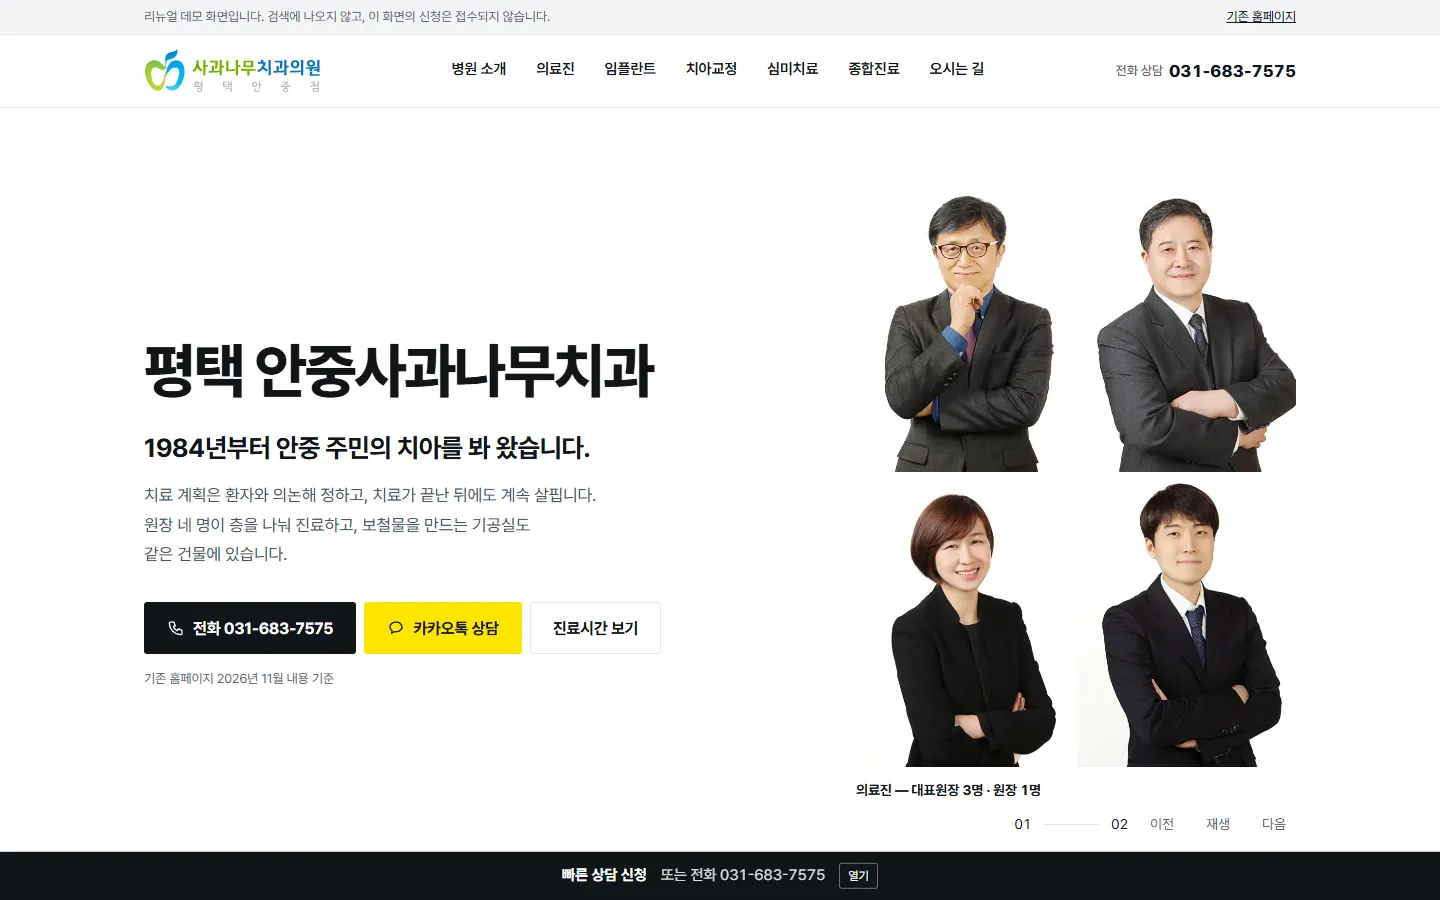
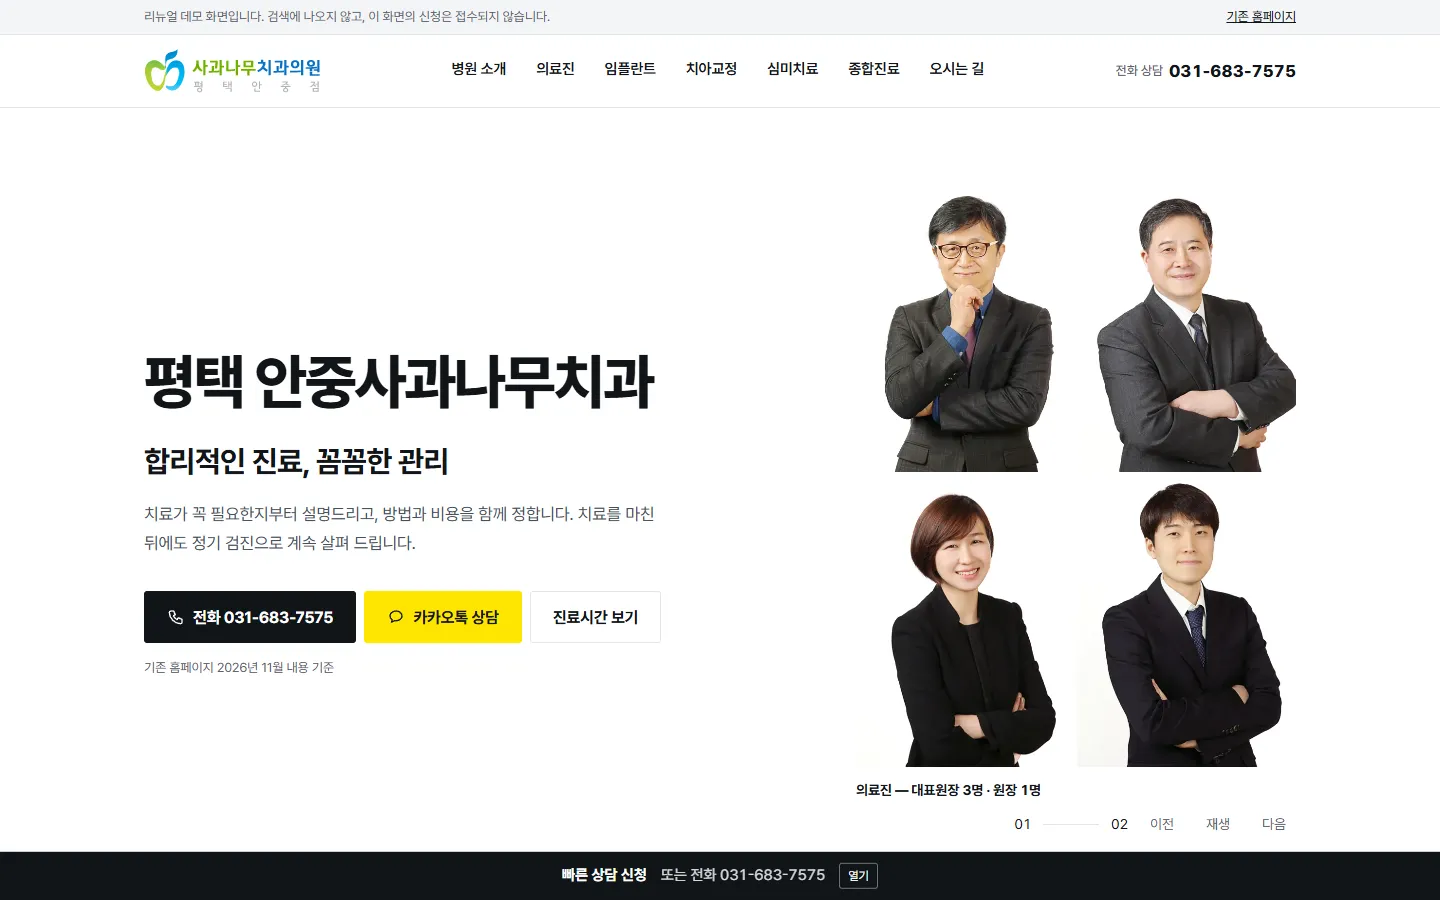
홈 첫 화면 강점 문구, 의료진 약력 상세, 층 구간 제목

Changed region(s): [[0.0938, 0.3733, 0.4688, 0.6222], [0.0938, 0.6533, 0.4375, 0.7778]]

diff --git a/index.html b/index.html
@@ -35,8 +35,8 @@
   <div class="wrap hero__grid">
     <div>
       <h1 id="h1">평택 안중사과나무치과</h1>
-      <p class="hero__tag"><span class="dot-run">1984년부터 안중 주민의 치아를 <span class="nw">봐 왔습니다.</span></span></p>
-      <p class="hero__lead"><span class="dot-run">치료 계획은 환자와 의논해 정하고, 치료가 끝난 뒤에도 계속 살핍니다. 원장 네 명이 층을 나눠 진료하고, 보철물을 만드는 기공실도 같은 <span class="nw">건물에 있습니다.</span></span></p>
+      <p class="hero__tag"><span class="dot-run">합리적인 진료, <span class="nw">꼼꼼한 관리</span></span></p>
+      <p class="hero__lead"><span class="dot-run">치료가 꼭 필요한지부터 설명드리고, 방법과 비용을 함께 정합니다. 치료를 마친 뒤에도 정기 검진으로 계속 <span class="nw">살펴 드립니다.</span></span></p>
       <div class="btns"><a class="btn btn--ink" href="tel:031-683-7575"><svg viewBox="0 0 24 24" aria-hidden="true"><path d="M5 4h4l2 5-2.5 1.5a11 11 0 0 0 5 5L15 13l5 2v4a2 2 0 0 1-2 2A16 16 0 0 1 3 6a2 2 0 0 1 2-2"/></svg>전화 031-683-7575</a><a class="btn btn--kakao" href="https://pf.kakao.com/_xjNxkAl" target="_blank" rel="noopener"><svg viewBox="0 0 24 24" aria-hidden="true"><path d="M12 4c4.4 0 8 2.9 8 6.5S16.4 17 12 17c-.7 0-1.4-.1-2-.2L6 19l.9-3.3C5.1 14.6 4 12.7 4 10.5 4 6.9 7.6 4 12 4z"/></svg>카카오톡 상담</a><a class="btn btn--line" href="#visit">진료시간 보기</a></div>
       <p class="basis"><span class="dot-run">기존 홈페이지 2026년 11월 <span class="nw">내용 기준</span></span></p>
     </div>
@@ -59,34 +59,30 @@
     <p class="doc__name">이상훈<span>대표원장</span></p>
     <div class="doc__rule"></div>
     
-    <p class="doc__short"><span class="dot-run">연세대학교 <span class="nw">치과대학 졸업</span></span></p>
-    
+    <ul class="doc__cv"><li><span class="dot-run">연세대학교 <span class="nw">치과대학 졸업</span></span></li><li>대한악안면임플란트학회 정회원</li><li>대한치과의료관리학회 정회원</li><li><span class="nw">한국방정환재단 이사</span></li><li><span class="nw">안중제일신협 이사장</span></li></ul>
   </a></li><li><a class="doc" href="doctors/#baek-namgyu">
     <div class="doc__ph"><img src="assets/img/dr-bnk.webp" width="450" height="650" alt="백남규 대표원장" loading="lazy" decoding="async"></div>
     <p class="doc__name">백남규<span>대표원장</span></p>
     <div class="doc__rule"></div>
     
-    <p class="doc__short"><span class="dot-run">치의학 <span class="nw">박사 ·</span> 경희대학교 <span class="nw">치과대학 졸업</span></span></p>
-    
+    <ul class="doc__cv"><li><span class="nw">치의학 박사</span></li><li><span class="dot-run">경희대학교 <span class="nw">치과대학 졸업</span></span></li><li><span class="dot-run">전북대학교 치과대학 부속병원 인턴, <span class="nw">레지던트 수료</span></span></li><li><span class="nw">소아치과 인정의</span></li><li><span class="nw">대한소아치과학회 정회원</span></li></ul>
   </a></li><li><a class="doc" href="doctors/#ahn-seonhye">
     <div class="doc__ph"><img src="assets/img/dr-ash.webp" width="450" height="650" alt="안선혜 대표원장" loading="lazy" decoding="async"></div>
     <p class="doc__name">안선혜<span>대표원장</span></p>
     <div class="doc__rule"></div>
-    <p class="doc__main"><b>주요 진료</b>치아교정</p>
-    <p class="doc__short"><span class="dot-run">연세대학교 치과대학 <span class="nw">치의학 석사</span></span></p>
-    <p class="doc__spec"><span><span class="nw">치과교정과 전문의</span></span></p>
+    <p class="doc__spec"><span class="dot-run">치과교정과 <span class="nw">전문의 ·</span> <span class="nw">치아교정 진료</span></span></p>
+    <ul class="doc__cv"><li><span class="dot-run">연세대학교 치과대학 <span class="nw">치의학 석사</span></span></li><li><span class="dot-run">연세대학교 치과대학 및 <span class="nw">대학원 졸업</span></span></li><li><span class="dot-run">연세대학교 치과대학병원 인턴, 교정과 <span class="nw">레지던트 수료</span></span></li><li><span class="dot-run">University of Southern California 교정과 externship <span class="nw">residency 수료</span></span></li><li><span class="dot-run">연세대학교 <span class="nw">교정연구회 정회원</span></span></li><li><span class="dot-run">대한치과교정학회 정회원 <span class="nw">및 인정의</span></span></li><li><span class="dot-run"><span class="nw">세계치과교정연맹(WFO)</span> 회원</span></li></ul>
   </a></li><li><a class="doc" href="doctors/#park-sangguk">
     <div class="doc__ph"><img src="assets/img/dr-psk.webp" width="450" height="650" alt="박상국 원장" loading="lazy" decoding="async"></div>
     <p class="doc__name">박상국<span>원장</span></p>
     <div class="doc__rule"></div>
     
-    <p class="doc__short"><span class="dot-run">고려대학교 <span class="nw">치의학 석사</span></span></p>
-    
+    <ul class="doc__cv"><li><span class="dot-run">고려대학교 <span class="nw">치의학 석사</span></span></li><li><span class="dot-run">고려대학교 임상치의학대학원 <span class="nw">구강외과 졸업</span></span></li><li><span class="dot-run">강릉대학교 <span class="nw">치과대학 졸업</span></span></li><li><span class="nw">대한치과보철학회 정회원</span></li></ul>
   </a></li></ul>
 </div></section>
 <section class="sec" aria-labelledby="fl-h"><div class="wrap">
-  <div class="sec-head"><h2 class="sec-h" id="fl-h">2층부터 4층까지, 층마다 하는 일</h2><a class="more-link" href="tour/">층별 둘러보기</a></div>
-  <p class="sec-lead"><span class="dot-run">2층은 임플란트와 수술, 3층은 교정, 4층은 보철물 제작 — 한 건물 안에서 층마다 <span class="nw">나뉘어 있습니다.</span></span></p>
+  <div class="sec-head"><h2 class="sec-h" id="fl-h"><span class="dot-run"><span class="nw">검사·수술·보철물</span> 제작을 한 건물에서</span></h2><a class="more-link" href="tour/">층별 둘러보기</a></div>
+  
   <article class="p06__row">
     <div class="p06__text">
       <p class="p06__num">01</p>

diff --git a/assets/css/site.css b/assets/css/site.css
@@ -68,7 +68,7 @@ a { color: inherit; }
 .hero__grid { display: grid; grid-template-columns: 7fr 5fr; gap: 64px; align-items: center; }
 .hero__place { margin: 0 0 14px; font-size: 15px; font-weight: 700; color: var(--accent); }
 .hero h1 { margin: 0 0 24px; font-size: clamp(36px, 4.4vw, 60px); font-weight: 800; letter-spacing: -0.035em; line-height: 1.15; }
-.hero__tag { margin: 0 0 14px; font-size: clamp(21px, 1.9vw, 26px); font-weight: 700; line-height: 1.45; letter-spacing: -0.02em; color: var(--ink); max-width: 24em; }
+.hero__tag { margin: 0 0 16px; font-size: clamp(22px, 2.2vw, 30px); font-weight: 700; line-height: 1.45; letter-spacing: -0.02em; color: var(--ink); max-width: 24em; }
 .hero__lead { margin: 0 0 32px; font-size: 17px; line-height: 1.75; color: #4A525C; max-width: 31em; }
 .hero__ph { margin: 0; max-width: 440px; justify-self: end; width: 100%; }
 .hero__frame { position: relative; aspect-ratio: 3 / 4; background: var(--soft); overflow: hidden; touch-action: pan-y; }
@@ -124,11 +124,9 @@ a { color: inherit; }
 .doc__name { margin: 16px 0 0; font-size: 20px; font-weight: 800; letter-spacing: -0.02em; line-height: 1.3; }
 .doc__name span { font-size: 15px; font-weight: 600; color: var(--sub); margin-left: 6px; }
 .doc__rule { height: 1px; background: var(--line); margin: 12px 0; }
-.doc__main { margin: 0 0 4px; font-size: 15px; }
-.doc__main b { color: var(--accent); margin-right: 6px; font-weight: 700; }
-.doc__short { margin: 0; font-size: 15px; color: var(--sub); }
-.doc__spec { margin: auto 0 0; padding-top: 12px; font-size: 14px; font-weight: 700; }
-.doc__spec span { display: inline-block; border: 1px solid var(--accent); color: var(--accent); border-radius: var(--r); padding: 2px 8px; }
+.doc__spec { margin: 0 0 8px; font-size: 15px; font-weight: 700; color: var(--accent); }
+.doc__cv { list-style: none; margin: 0; padding: 0; font-size: 15px; line-height: 1.5; color: #4A525C; }
+.doc__cv li { padding: 3px 0; }
 
 /* ── P06 번호 강점 바둑판(사진 뒤 면은 밝은 회색 — 이 쪽 어두운 구간 0곳) ── */
 .p06__row { display: grid; grid-template-columns: 7fr 5fr; align-items: center; }
@@ -580,7 +578,7 @@ body.has-cta { padding-bottom: 48px; }
   .sec-head { flex-direction: column; align-items: start; gap: 10px; }
   .hero { padding: 36px 0 56px; }
   .hero h1 { font-size: clamp(32px, 9vw, 40px); }
-  .hero__tag { font-size: 20px; }
+  .hero__tag { font-size: 23px; }
   .hero__lead { font-size: 16px; }
   .hero__ph { max-width: none; }
   .hero__frame { aspect-ratio: 4 / 5; }
@@ -591,10 +589,18 @@ body.has-cta { padding-bottom: 48px; }
   .p04__list { gap: 24px 12px; }
   .p04__name { font-size: 16px; }
   .p04__sub { font-size: 14px; }
-  .docs { gap: 24px 12px; }
-  .doc__name { font-size: 18px; }
-  .doc__name span { display: block; margin: 0; font-size: 14px; }
-  .doc__short, .doc__main { font-size: 14px; }
+  /* 휴대폰: 약력이 길어져 두 칸 격자 대신 사진 왼쪽·약력 오른쪽 한 줄씩 */
+  .docs { grid-template-columns: 1fr; gap: 0; }
+  .docs > li { border-top: 1px solid var(--line); padding: 20px 0; }
+  .docs > li:last-child { padding-bottom: 0; }
+  .doc { display: grid; grid-template-columns: 104px 1fr; column-gap: 16px; align-items: start; height: auto; }
+  .doc__ph { grid-column: 1; grid-row: 1 / span 4; }
+  .doc > :not(.doc__ph) { grid-column: 2; }
+  .doc__rule { display: none; }
+  .doc__name { margin: 0 0 6px; font-size: 18px; }
+  .doc__name span { font-size: 14px; }
+  .doc__spec { margin-bottom: 4px; }
+  .doc__spec, .doc__cv { font-size: 14px; }
   .p12__btns { grid-template-columns: 1fr 1fr; }
   .hours > div { grid-template-columns: 2.2em 3.4em 1fr; font-size: 15px; }
   .faq summary { font-size: 17px; }

diff --git a/compare/index.html b/compare/index.html
@@ -12,7 +12,7 @@
 <meta property="og:title" content="기존 홈페이지와 새 홈페이지 비교 | 평택 안중사과나무치과">
 <meta property="og:description" content="기존 홈페이지(apple7575.com)와 새 홈페이지 데모의 같은 쪽 다섯 곳을 PC·휴대폰으로 나란히. 같은 방법으로 잰 값: 구조화 데이터 0→53쪽, 의료광고 위험 표현 30→0곳.">
 <meta property="og:url" content="https://kkwon91.github.io/anjung-appletree-demo/compare/">
-<meta property="og:image" content="https://kkwon91.github.io/anjung-appletree-demo/share/img/og-compare.jpg?v=1126b">
+<meta property="og:image" content="https://kkwon91.github.io/anjung-appletree-demo/share/img/og-compare.jpg?v=1126c">
 <meta property="og:image:width" content="1200"><meta property="og:image:height" content="630">
 <meta name="theme-color" content="#ffffff">
 <link rel="preconnect" href="https://cdn.jsdelivr.net" crossorigin>
@@ -114,14 +114,14 @@
 
 <section class="sh-sec" id="full" aria-labelledby="full-h"><div class="sh-wrap">
   <h2 id="full-h">홈 전체</h2>
-  <p class="sh-sub">틀 안을 내려 보세요. PC는 절반 크기입니다(실제 높이 기존 1,517px · 새 6,883px).</p>
+  <p class="sh-sub">틀 안을 내려 보세요. PC는 절반 크기입니다(실제 높이 기존 1,517px · 새 6,964px).</p>
   <div class="pair">
     <div><p class="side side--old">기존</p><figure class="win"><span class="win__bar">apple7575.com</span><div class="scroll" tabindex="0" role="region" aria-label="기존 PC 홈 전체 — 내려 보기"><img src="../share/img/old-home-pc-full.jpg" width="720" height="759" alt="기존 홈페이지 PC 홈 전체" loading="lazy" decoding="async"></div></figure></div>
-    <div><p class="side">새 홈페이지</p><figure class="win"><span class="win__bar">kkwon91.github.io/anjung-appletree-demo/</span><div class="scroll" tabindex="0" role="region" aria-label="새 PC 홈 전체 — 내려 보기"><img src="../share/img/new-home-pc-full.jpg" width="720" height="3442" alt="새 홈페이지 PC 홈 전체" loading="lazy" decoding="async"></div></figure></div>
+    <div><p class="side">새 홈페이지</p><figure class="win"><span class="win__bar">kkwon91.github.io/anjung-appletree-demo/</span><div class="scroll" tabindex="0" role="region" aria-label="새 PC 홈 전체 — 내려 보기"><img src="../share/img/new-home-pc-full.jpg" width="720" height="3482" alt="새 홈페이지 PC 홈 전체" loading="lazy" decoding="async"></div></figure></div>
   </div>
   <div class="pair pair--mo">
     <div><p class="side side--old">기존 · 휴대폰</p><figure class="phone"><div class="scroll" tabindex="0" role="region" aria-label="기존 휴대폰 홈 전체 — 내려 보기"><img src="../share/img/old-home-mo-full.jpg" width="390" height="1485" alt="기존 홈페이지 휴대폰 홈 전체" loading="lazy" decoding="async"></div></figure></div>
-    <div><p class="side">새 · 휴대폰</p><figure class="phone"><div class="scroll" tabindex="0" role="region" aria-label="새 휴대폰 홈 전체 — 내려 보기"><img src="../share/img/new-home-mo-full.jpg" width="390" height="9333" alt="새 홈페이지 휴대폰 홈 전체" loading="lazy" decoding="async"></div></figure></div>
+    <div><p class="side">새 · 휴대폰</p><figure class="phone"><div class="scroll" tabindex="0" role="region" aria-label="새 휴대폰 홈 전체 — 내려 보기"><img src="../share/img/new-home-mo-full.jpg" width="390" height="9361" alt="새 홈페이지 휴대폰 홈 전체" loading="lazy" decoding="async"></div></figure></div>
   </div>
 </div></section>
 </main>

diff --git a/mockup/index.html b/mockup/index.html
@@ -12,7 +12,7 @@
 <meta property="og:title" content="새 홈페이지 PC·휴대폰 화면 | 평택 안중사과나무치과">
 <meta property="og:description" content="안중사과나무치과 리뉴얼 데모의 실제 화면 — 첫 화면, 홈 전체, 임플란트·치아교정·오시는 길 쪽, 관리자를 PC와 휴대폰 크기로.">
 <meta property="og:url" content="https://kkwon91.github.io/anjung-appletree-demo/mockup/">
-<meta property="og:image" content="https://kkwon91.github.io/anjung-appletree-demo/share/img/og-mockup.jpg?v=1126b">
+<meta property="og:image" content="https://kkwon91.github.io/anjung-appletree-demo/share/img/og-mockup.jpg?v=1126c">
 <meta property="og:image:width" content="1200"><meta property="og:image:height" content="630">
 <meta name="theme-color" content="#ffffff">
 <link rel="preconnect" href="https://cdn.jsdelivr.net" crossorigin>
@@ -45,10 +45,10 @@
 
 <section class="sh-sec" id="full" aria-labelledby="full-h"><div class="sh-wrap">
   <h2 id="full-h">홈 전체</h2>
-  <p class="sh-sub">틀 안을 내려 보세요. PC는 절반 크기로 찍었습니다(실제 높이 6,883px, 휴대폰 9,333px).</p>
+  <p class="sh-sub">틀 안을 내려 보세요. PC는 절반 크기로 찍었습니다(실제 높이 6,964px, 휴대폰 9,361px).</p>
   <div class="dev">
-    <figure class="win"><span class="win__bar">kkwon91.github.io/anjung-appletree-demo/</span><div class="scroll" tabindex="0" role="region" aria-label="PC 홈 전체 — 내려 보기"><img src="../share/img/new-home-pc-full.jpg" width="720" height="3442" alt="새 홈페이지 PC 홈 전체" loading="lazy" decoding="async"></div></figure>
-    <figure class="phone"><div class="scroll" tabindex="0" role="region" aria-label="휴대폰 홈 전체 — 내려 보기"><img src="../share/img/new-home-mo-full.jpg" width="390" height="9333" alt="새 홈페이지 휴대폰 홈 전체" loading="lazy" decoding="async"></div></figure>
+    <figure class="win"><span class="win__bar">kkwon91.github.io/anjung-appletree-demo/</span><div class="scroll" tabindex="0" role="region" aria-label="PC 홈 전체 — 내려 보기"><img src="../share/img/new-home-pc-full.jpg" width="720" height="3482" alt="새 홈페이지 PC 홈 전체" loading="lazy" decoding="async"></div></figure>
+    <figure class="phone"><div class="scroll" tabindex="0" role="region" aria-label="휴대폰 홈 전체 — 내려 보기"><img src="../share/img/new-home-mo-full.jpg" width="390" height="9361" alt="새 홈페이지 휴대폰 홈 전체" loading="lazy" decoding="async"></div></figure>
   </div>
 </div></section>
 
